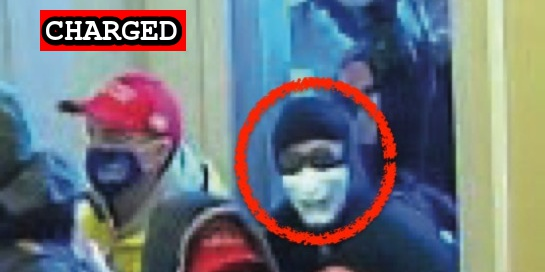
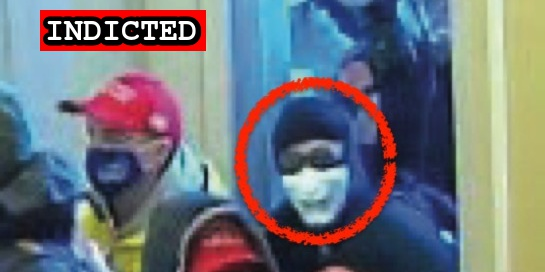
New indictment

Changed region(s): [[0.0624, 0.0294, 0.4055, 0.2059]]

diff --git a/docs/_suspects/fi-duong.md b/docs/_suspects/fi-duong.md
@@ -6,7 +6,7 @@ residence: Virginia
 status: Charged
 date: 2021-06-30
 charged: 2021-06-30
-indicted:
+indicted: 2021-08-25
 convicted:
 sentenced:
 dismissed:
@@ -32,3 +32,4 @@ published: true
 
 - [News Report](https://www.washingtonpost.com/local/legal-issues/capitol-riot-bible-study-group-militia/2021/07/06/e5e6cd26-de82-11eb-ae31-6b7c5c34f0d6_story.html)
 - [Statement of Facts](https://www.justice.gov/usao-dc/case-multi-defendant/file/1409611/download)
+- [Indictment](https://storage.courtlistener.com/recap/gov.uscourts.dcd.234965/gov.uscourts.dcd.234965.11.0.pdf)
